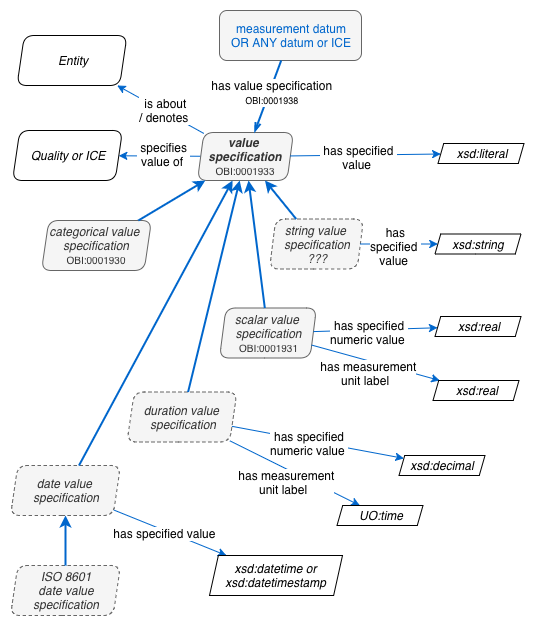
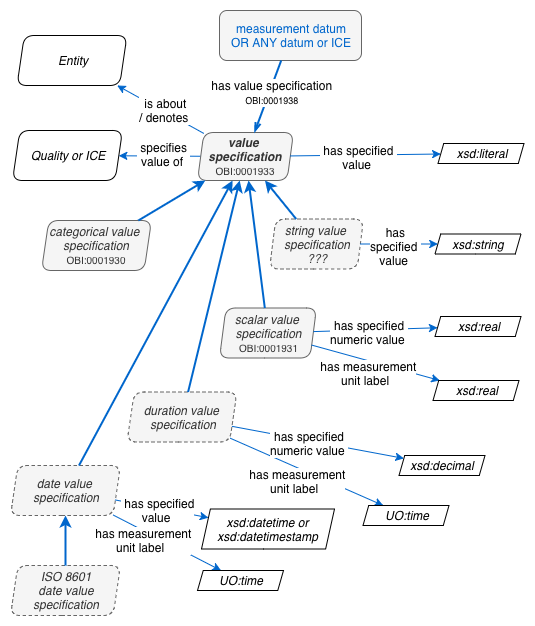
touchup

Changed region(s): [[0.1794, 0.6981, 0.8374, 0.9712], [0.628, 0.8802, 0.6579, 0.9105]]

diff --git a/_pages/docs/data-vs.md b/_pages/docs/data-vs.md
@@ -18,15 +18,17 @@ The inability of [`data properties`](/docs/data_properties/) to provide units, v
 
 - A `scalar value specification` includes a `has specified value` as described in the `data properties` section, and a `has measurement unit label` to define permitted unit classes.    
 
-- A `categorical value specification` includes a `specifies value of` object property pointing to a root term in an ontology branch of terms which should be considered choices of the categorical value.  If the branch root is a quality, the `specifies quality measurement of` object relation holds.
+- A `categorical value specification` includes a `specifies value of` object property pointing to a root term in an ontology branch of terms which should be considered choices of the categorical value.
+
+- Datetime and duration value specifications enable a date, time or duration, and associated units, to be described e.g. "5 days", or "week of 2018/01/01".
 
 Explanations of the different types of categorical, numeric and datetime value specifications are contained in the [`Data Types`](data-types.md) documentation. Background information on how the value specification concept was developed is [here](https://github.com/obi-ontology/obi-legacy-svn/blob/master/trunk/src/examples/development/data-prototype.pdf){:target="_blank"}.  Other related OBI repository issues: [#870](https://github.com/obi-ontology/obi/issues/870){:target="_blank"}, [#945](https://github.com/obi-ontology/obi/issues/945){:target="_blank"} and [#833](https://github.com/obi-ontology/obi/issues/833){:target="_blank"}.
 
 <img align="right" src="/assets/images/docs/data_john_mass_value_spec.png">
 
-A **value specification diagram** can have data about entities which bear various qualities, and their value specifications, without necessarily having connections to a model layer of processes and datums, so these components canfit seamlessly with process modelling, but can be stand-alone as well.  Tabular data column metadata can be detailed independently of experimental protocol process descriptions that explain how the data was generated.  
+A **value specification diagram** can have data about entities which bear various qualities, and their value specifications, without necessarily having connections to a model layer of processes and datums, so these components can fit seamlessly with process modelling, but can be stand-alone as well.  Tabular data column metadata can be detailed independently of experimental protocol process descriptions that explain how the data was generated.  
 
-A value specification's primary aboutness is expressed using the **[`specifies value of`](http://purl.obolibrary.org/obo/OBI_0001927){:target="_blank"}** object relation.  For example "[`mass value specification`](http://purl.obolibrary.org/obo/OBI_0001929){:target="_blank"} `specifies value of` some [`mass`](http://purl.obolibrary.org/obo/PATO_0000125){:target="_blank"}", as shown above. An instance of the VS `specifies value of` an instance of the mass quality which inheres in John. The VS instance has a kilogram unit, and a decimal value of 70.0 .
+The diagram shows a "[`mass value specification`](http://purl.obolibrary.org/obo/OBI_0001929){:target="_blank"} `specifies value of` some [`mass`](http://purl.obolibrary.org/obo/PATO_0000125){:target="_blank"}", as shown above. An instance of the VS `specifies value of` an instance of the mass quality which inheres in John. The VS instance has a kilogram unit, and a decimal value of 70.0 .
 
 The connection between a measurement datum (or any ICE term) and a value specification is accomplished with the **[`has value specification`](http://purl.obolibrary.org/obo/OBI_0001938){:target="_blank"}** object property. Thus an [`age measurement datum`](http://purl.obolibrary.org/obo/OBI_0001167){:target="_blank"} could be linked to a numeric value specification which details the unit - year, month, day etc. of the measure. It could alternately be provided as a [`categorical value`](/docs/data-categorical/) for "mature", "immature", "neonatal", etc.
 

diff --git a/_pages/docs/data-properties.md b/_pages/docs/data-properties.md
@@ -14,7 +14,7 @@ FOR BJORN!: *First, OBI makes the distinction between values that can be placed 
 
 <img align="right" src="/assets/images/docs/data_lee_data_property_age.png">
 
-An ontology **`data property`** is a relation from an entity instance straight to some literal datatype value (an RDF number or string for example) that is a measure/estimate of what that data property is about. In an ontology one might find a `has age` data property used to express that Lee's age is 12, as shown to the right. OBI shies away from this approach, as explained below.  
+An ontology **`data property`** is a relation from an entity instance straight to some literal datatype value (an RDF number, string or date for example) that is a measure/estimate of what that data property is about. In an ontology one might find a `has age` data property used to express that Lee's age is 12, as shown to the right. OBI shies away from this approach, as explained below.  
 
 <br clear="both">
 
